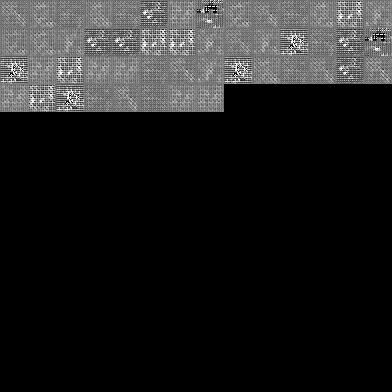
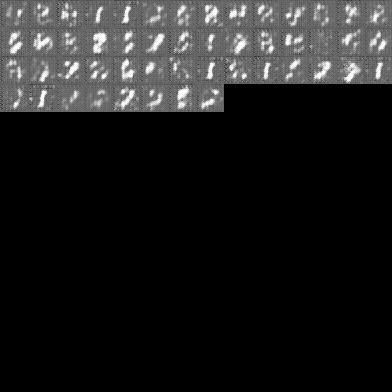
Adding relevant images

Changed region(s): [[0.0, 0.0, 1.0, 0.3061]]

diff --git a/elements/dcgan28.py b/elements/dcgan28.py
@@ -262,7 +262,7 @@ for ep in range(epoch):
 		vector_ : vector_sample
 	}
 	gen_samples = session.run(image_sample,feed_dict=feed_dict)
-	save_visualization(gen_samples,(14,14),save_path=('../results/dcgan28/sample_%d.jpg'%(ep)))
+	save_visualization(gen_samples,(5,10),save_path=('../results/dcgan28/sample_%d.jpg'%(ep)))
 	saver.save(session,'./dcgan.ckpt')
 	print("Saved session")
 
